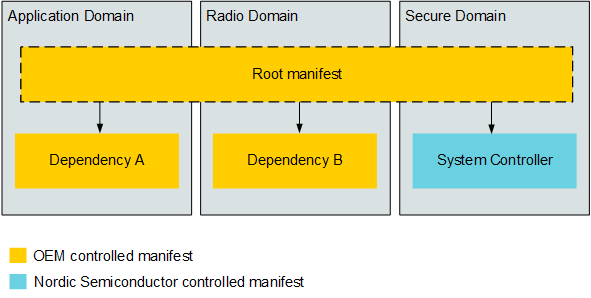
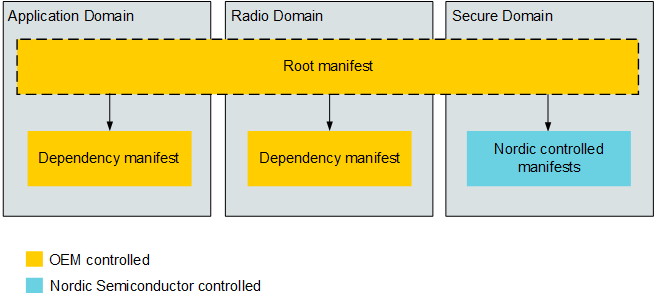
doc: add suit hier mani
Add text to hierarchical manifests

Changed region(s): [[0.0, 0.0, 1.0, 0.7248], [0.0, 0.8154, 0.5178, 0.9966]]

diff --git a/doc/nrf/working_with_nrf/nrf54h/ug_nrf54h20_suit_hierarchical_manifests.rst b/doc/nrf/working_with_nrf/nrf54h/ug_nrf54h20_suit_hierarchical_manifests.rst
@@ -3,6 +3,10 @@
 Hierarchical manifests
 ######################
 
+.. contents::
+   :local:
+   :depth: 2
+
 The Software Updates for the Internet of Things (SUIT) procedure provides the option to employ a hierarchical manifest system.
 This hierarchical manifest system is a specific type of manifest topology, and functions as a delivery chain, allowing for versatile customization of the Device Firmware Update (DFU) process across various specific use cases.
 The nRF54H20 System on Chip (SoC) contains multiple cores which may require multiple manifests, hence the need for a hierarchal manifest topology.
@@ -15,32 +19,73 @@ The hierarchical manifest system, which entails multiple manifests, allows for p
 
 To perform a DFU procedure on the nRF54H20 SoC, you must use either the manifest templates provided by Nordic Semiconductor or the manifest generator to create your own.
 Additionally, there may be some use cases where you will have to modify the manifests or the topology for your specific use case.
+See the :ref:`ug_nrf54h20_suit_create_manifest` page for instructions on how to modify values in the manifest.
 
 Default manifest topology
 *************************
 
 The design of the hierarchy of the manifests is considered the manifest topology.
 The hierarchical manifest topology can be described as having a root manifest, with several dependency manifests within it.
-A dependency manifest contains a specific updatable image or payload for a specific core/Domain of the device.
-Therefore, there can be multiple dependency manifests required. The root manifest bundles all the dependency manifests into a single executable image for the DFU.
+A dependency manifest contains a specific updatable image or payload for a specific Domain of the device.
+Therefore, there can be multiple dependency manifests required.
+The root manifest bundles all the dependency manifests into a single executable image for the DFU.
 
 .. figure:: images/nrf54h20_suit_default_manifest_topology.png
-   :alt: Default hierarchical manifest topology for the nRF54H20 SoC
+   :alt: General overview of hierarchical manifest topology for the nRF54H20 SoC
 
-   Default hierarchical manifest topology for the nRF54H20 SoC
+   General overview of hierarchical manifest topology for the nRF54H20 SoC
 
-By default, using SUIT’s hierarchical manifest involves using your own generated manifests (OEM controlled) in combination with manifests provided by Nordic Semiconductor - particularly for the Secure Domain (SecDom) and System Controller.
+Using SUIT’s hierarchical manifest involves using your own generated manifests (OEM-controlled) in combination with manifests provided by Nordic Semiconductor, particularly for the Secure Domain (SecDom) and System Controller.
 An example of how this would be implemented includes:
 
-* OEM controlled manifests:
+* OEM-controlled manifests
+
    * A root manifest that coordinates update and invocation processes on its dependency manifests.
-     It does not belong to any Domain or controls any local Domain resources.
+     It does not belong to any domain or control any local domain resources.
 
-   * A dependency manifest for each of the Domains, such as the Application and Radio Domains.
+   * A dependency manifest for each of the domains, such as the Application and Radio Domains.
 
-* Nordic Semiconductor controlled manifests - for the SecDom, including the System Controller
+* Nordic Semiconductor controlled manifests
 
-Alternatively, you can use the manifest generator to create your own manifests. Read the “How to use the manifest generator” user guide for instructions.
-Additionally, if you would like to have multiple dependency manifests for specific Domain you will need to modify the manifest topology.
+   * Nordic "Top" manifest
 
-If you need to modify the default manifest topology, see the “How to customize the SUIT DFU” user guide for instructions and example use cases.
+   * System Controller manifest
+
+   * SDFW manifest
+
+.. figure:: images/nrf54h20_suit_detailed_manifest_topology.png
+   :alt: Detailed view of hierarchical manifest topology for the nRF54H20 SoC
+
+   Detailed view of hierarchical manifest topology for the nRF54H20 SoC
+
+Read the :ref:`ug_nrf54h20_suit_create_manifest` user guide for instructions.
+
+Important considerations
+************************
+
+Some important considerations to keep in mind with SUIT’s hierarchical manifests are described below.
+
+Managing dependencies
+=====================
+
+Effectively managing dependencies between various manifests and components is essential for a successful DFU process.
+This is handled within the manifest by the ``SUIT_Dependencies`` manifest element, which is found within ``SUIT_Common``.
+``SUIT_Dependencies`` identifies which components from ``suit-components`` are to be treated as dependency manifest envelopes.
+It also allows for the separation of responsibilities and signing authorities.
+
+To ensure that all manifests will run as expected, you must assign the correct version information to each dependency manifest.
+This version information should be part of the manifest's Universal Unique Identifiers (UUID).
+
+.. _ug_suit_hier_targeting_domains:
+
+Targeting specific domains with UUIDs
+=====================================
+
+To be able to target a specific product in the DFU, you must declare the correct device with ``class-identifier`` and ``vendor-identifier`` which must be given as UUIDs.
+The SUIT procedure mandates that UUIDs (16 bytes) are to be used.
+The UUIDs declared are associated with the manifest it belongs to.
+Therefore, specifying the correct UUID allows for a targeted DFU approach, where specific release packages declared in a manifest are instructed to go to a specific product.
+
+.. note::
+   UUIDs for the SecDom, which is controlled by Nordic Semiconductor, may not be altered as they are already provisioned into the device.
+   For instructions on how to modify and generate UUIDs, see the :ref:`ug_nrf54h20_suit_create_manifest` page.

diff --git a/doc/nrf/releases/release-notes-changelog_lcs.rst b/doc/nrf/releases/release-notes-changelog_lcs.rst
@@ -351,4 +351,7 @@ Documentation
 Added:
 
 * List and description of :ref:`directives <ug_suit_dfu_suit_directives>` used in the SUIT DFU procedure.
+
 * A page on :ref:`ug_nrf54h20_suit_components` in the :ref:`ug_nrf54h20_suit_dfu` user guide.
+
+* A page on :ref:`ug_nrf54h20_suit_hierarchical_manifests` in the :ref:`ug_nrf54h20_suit_dfu` user guide.
